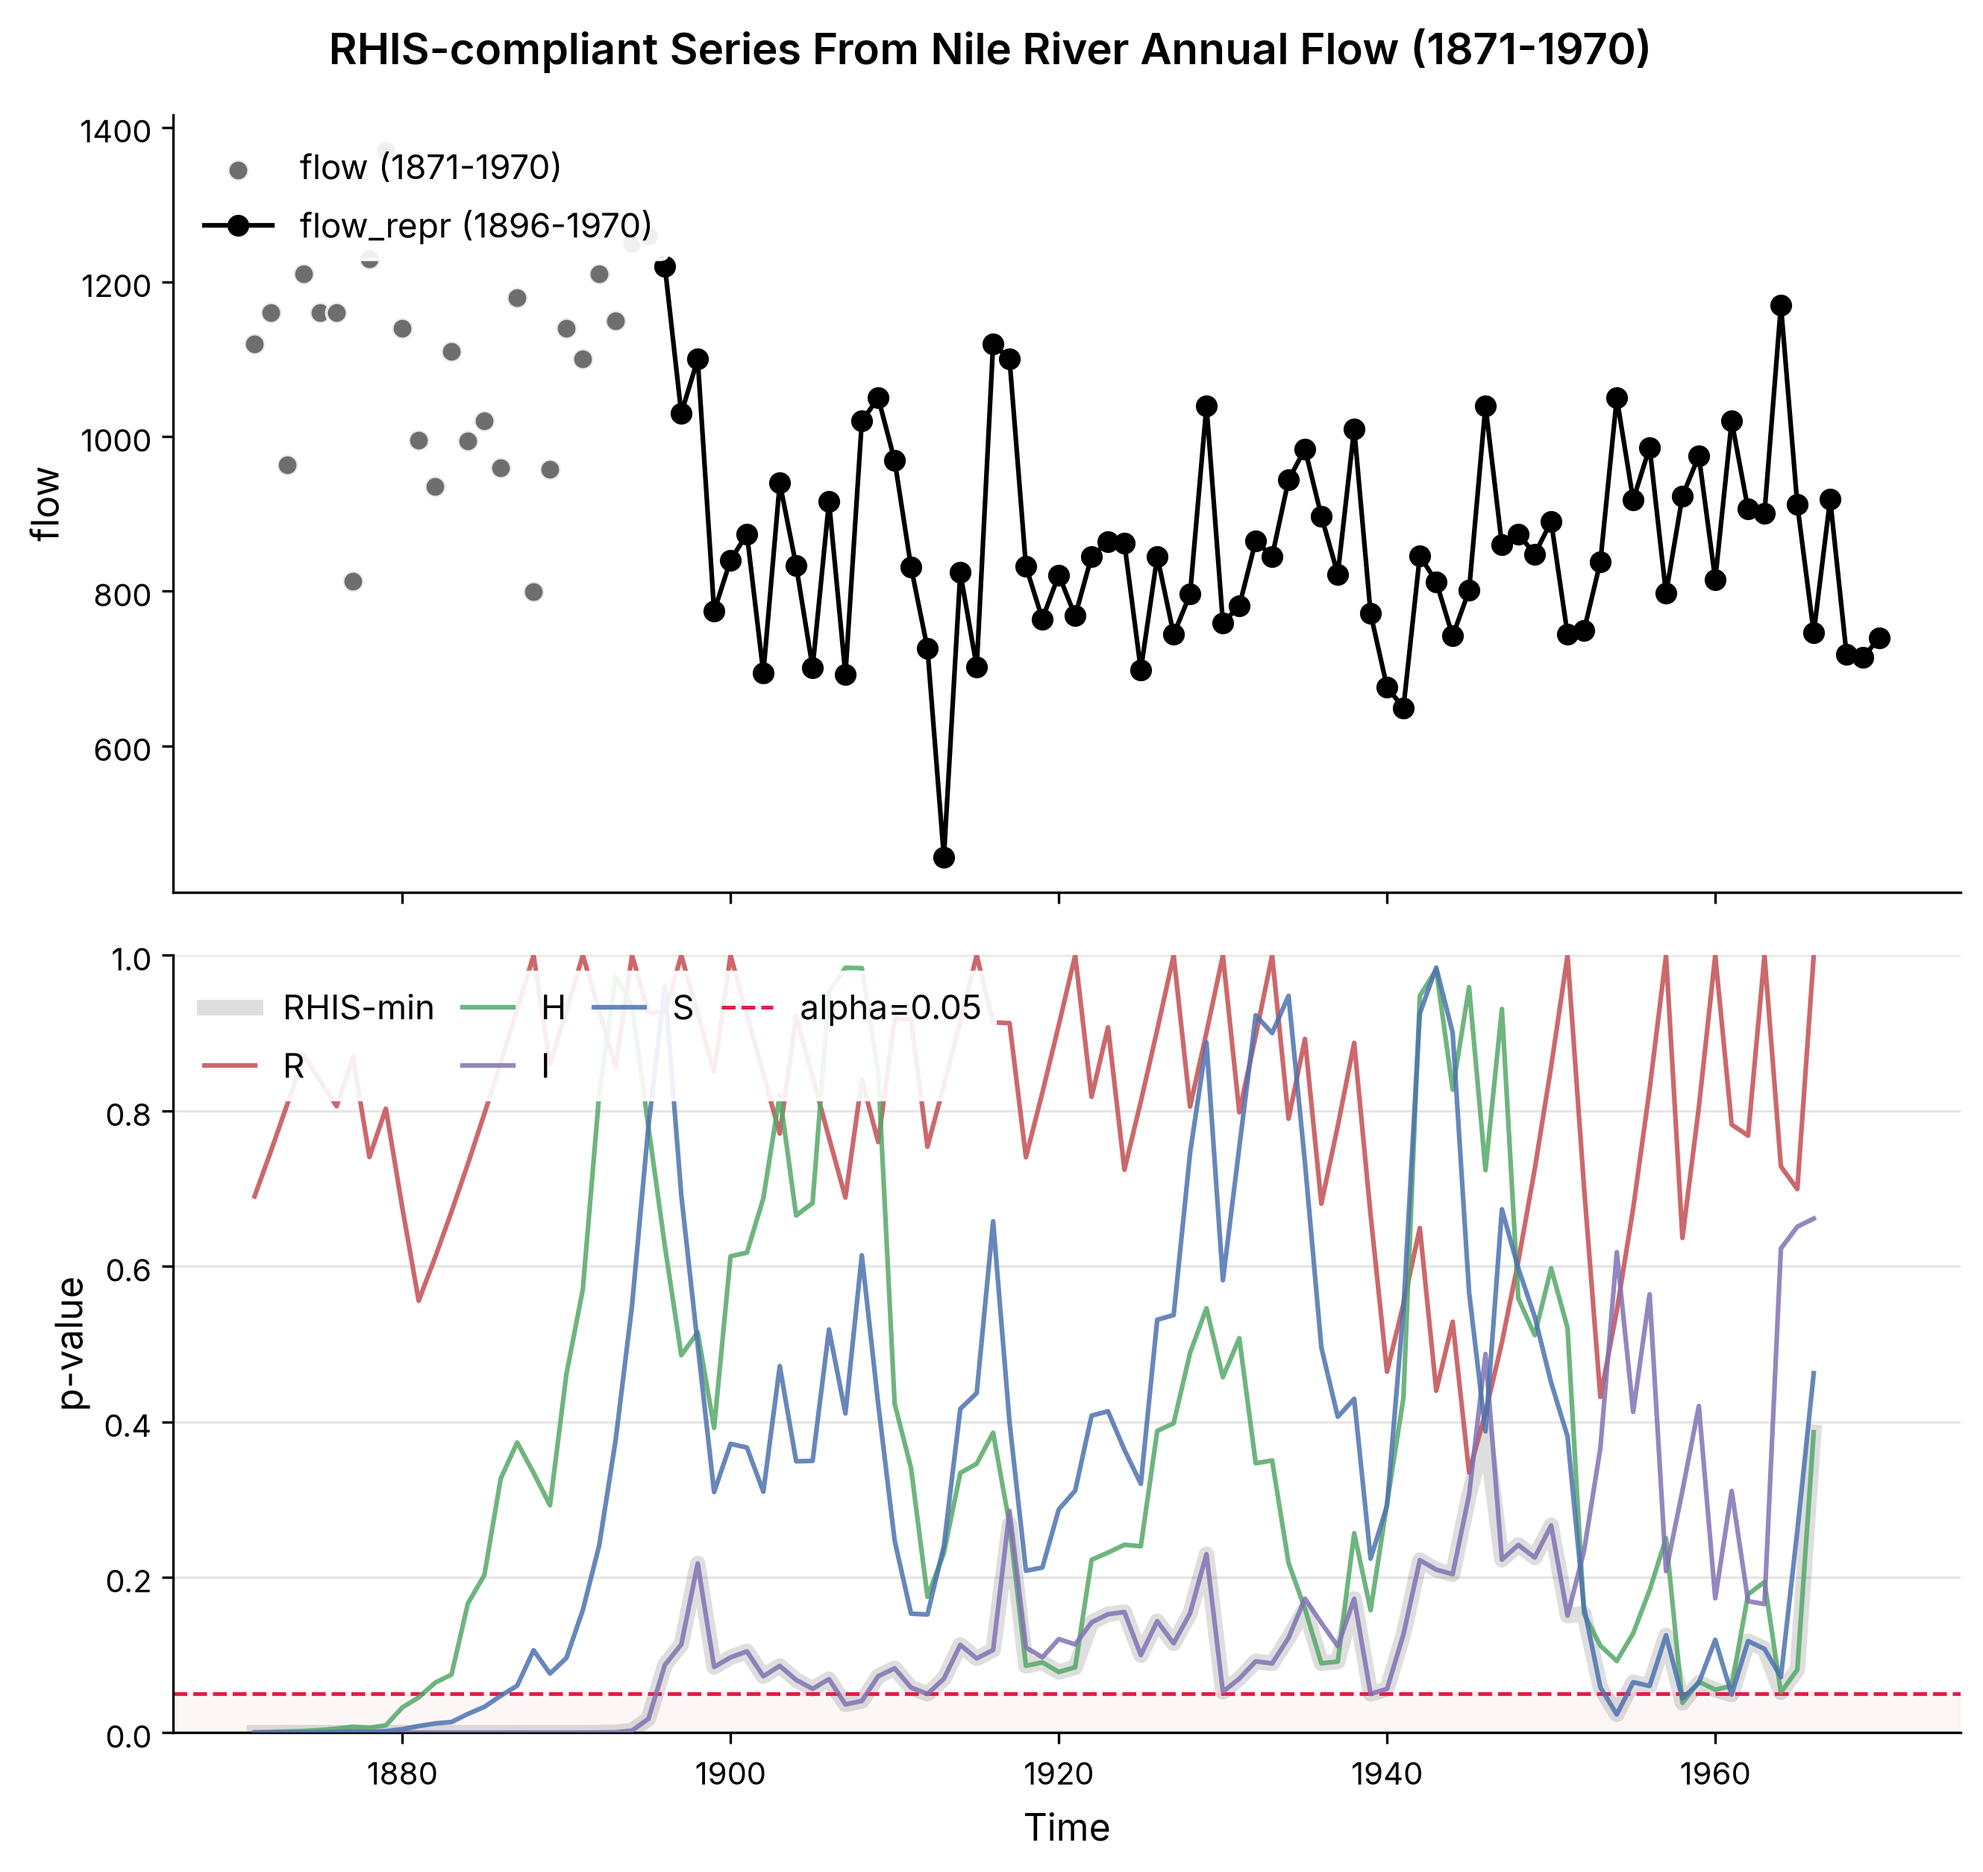
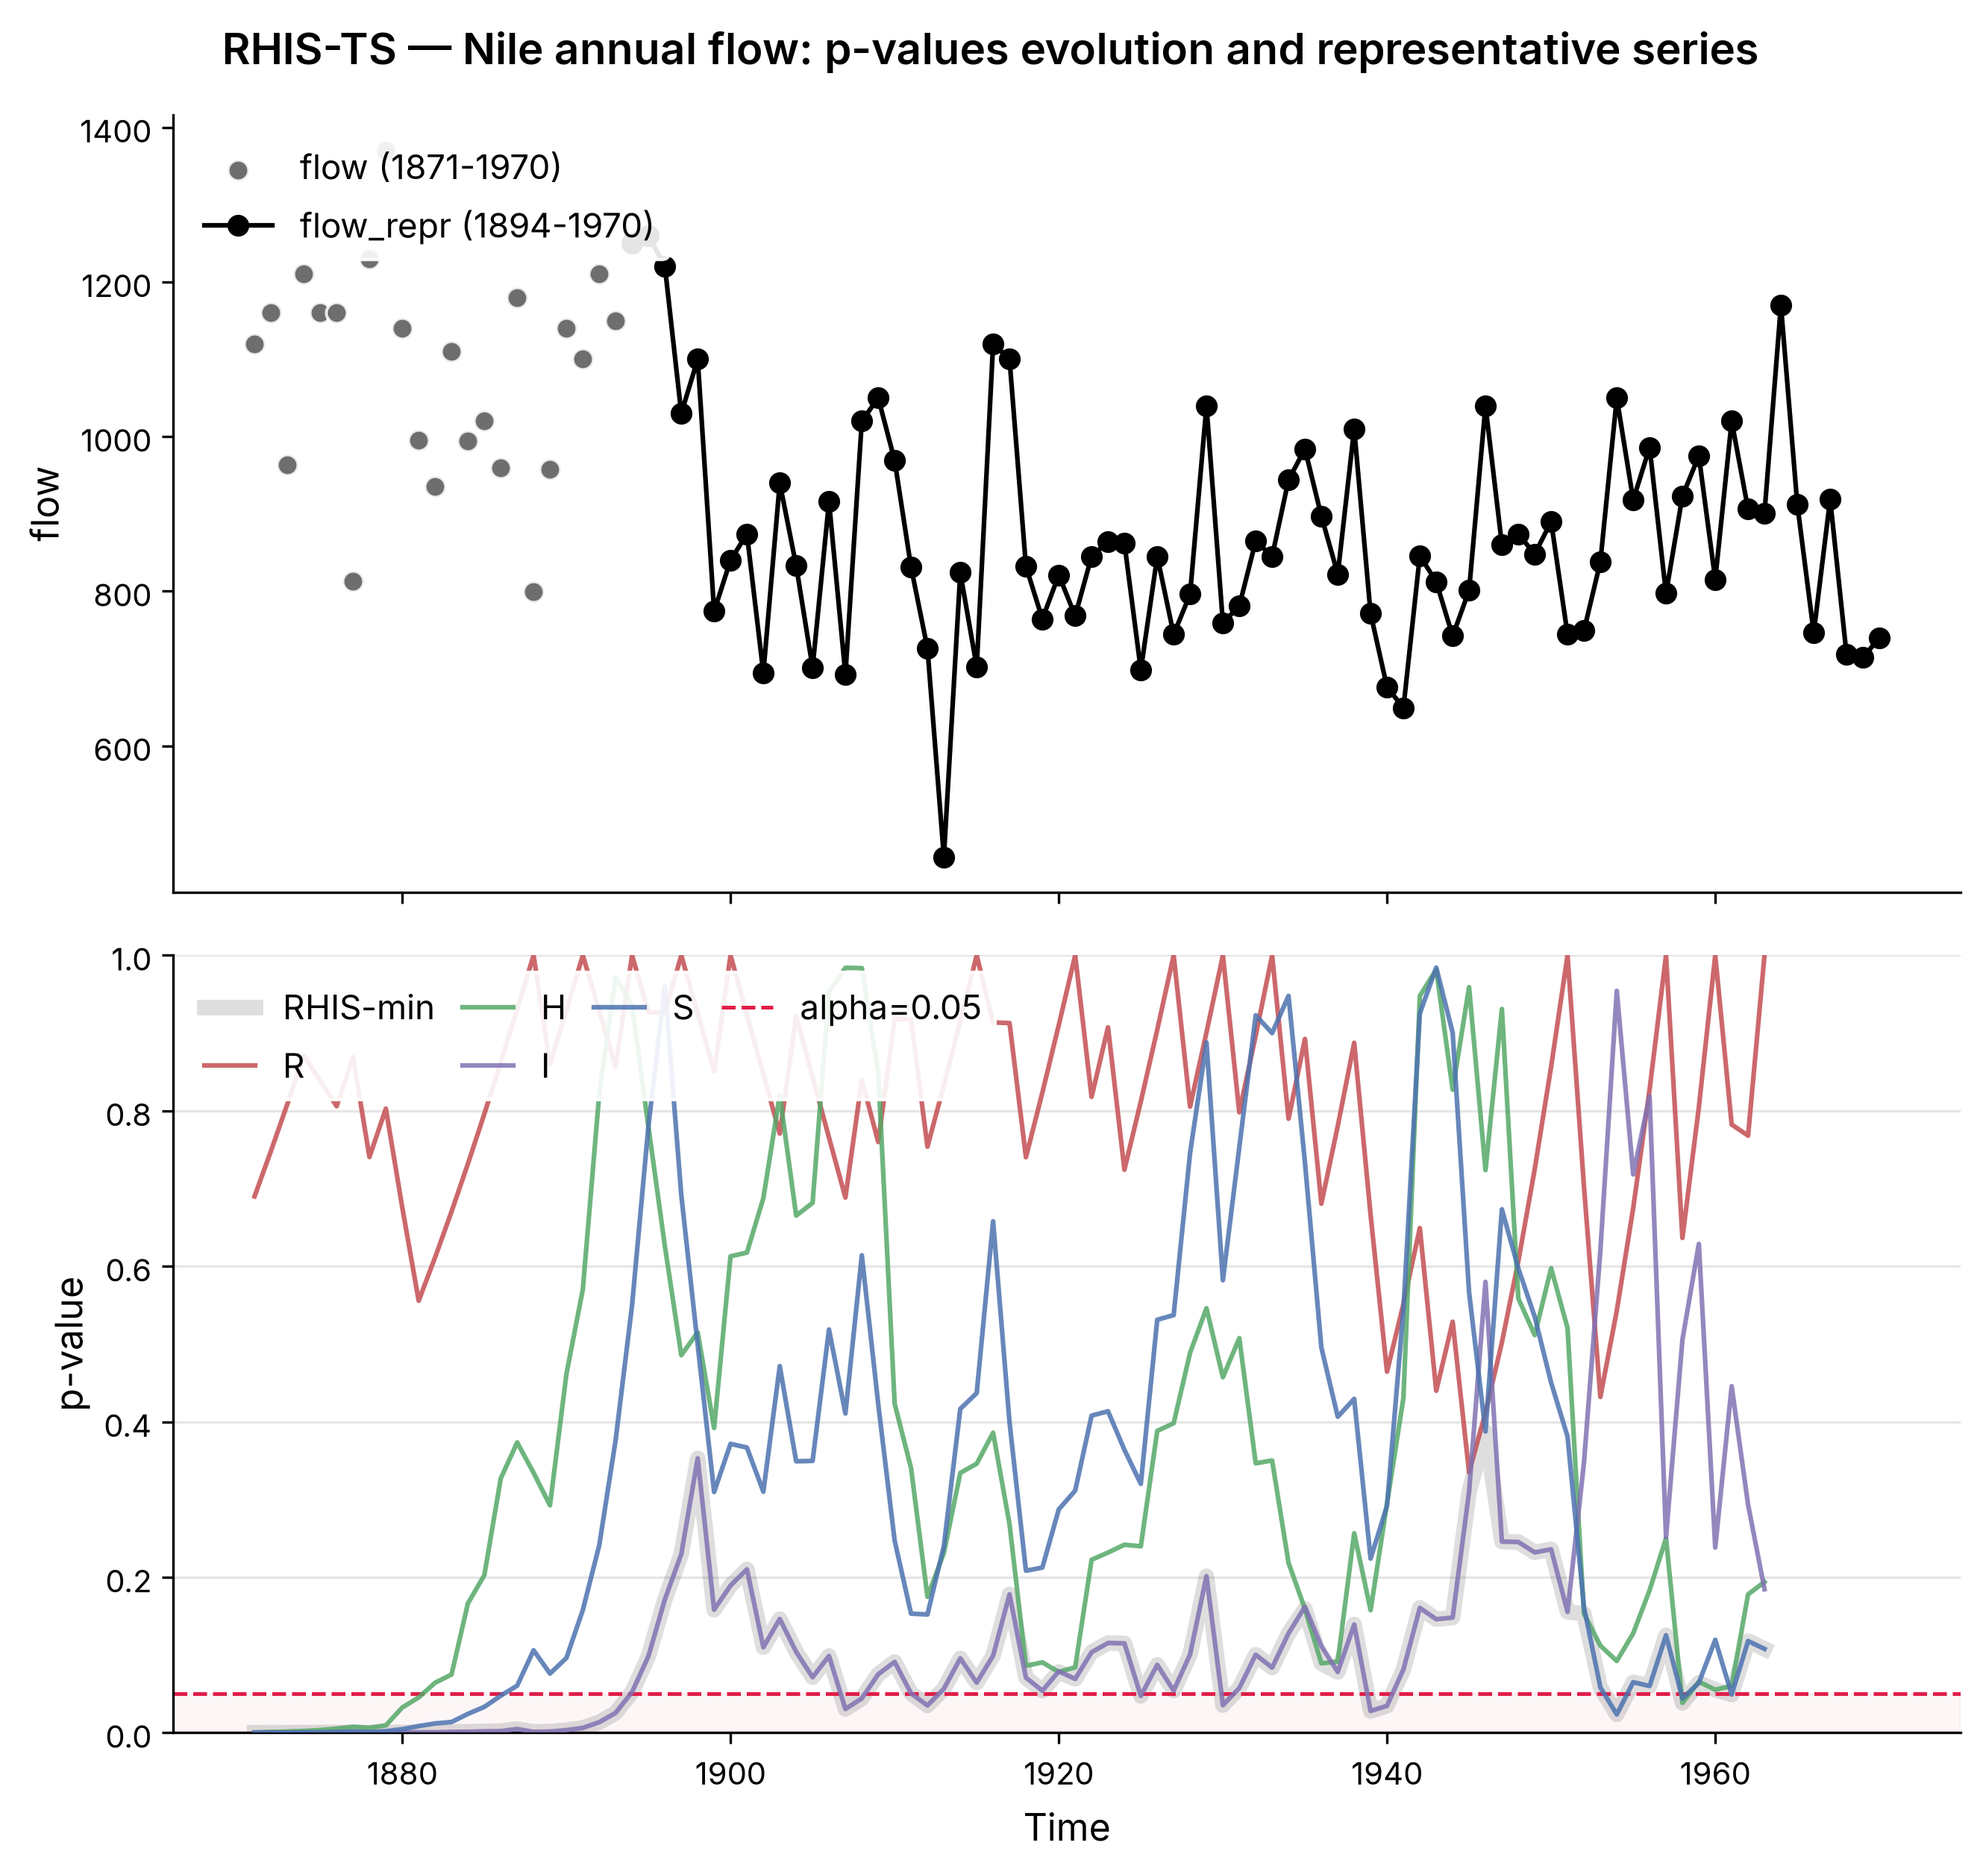
example plot has new title

Changed region(s): [[0.281, 0.5285, 0.9368, 0.9326], [0.0937, 0.0, 0.8743, 0.0311]]

diff --git a/README.md b/README.md
@@ -30,16 +30,16 @@ The windows are evaluated from longest to shortest, meaning the starting point m
 
 The results are returned as a simple dictionary containing the p-values for each hypothesis and the (start, end) indexes of the RHIS-compliant stretch.
 
-For example, a time series with 15 elements produces six p-values for each hypothesis, corresponding to windows of sizes 15, 14, 13, 12, 11, and 10.
+For example, a time series with 15 elements produces six p-values for each hypothesis, corresponding to windows of sizes 15, 14, 13, 12, 11, 10, 9, and 8.
 
 ```py
 p_evol = {
-    'series_0': {
-        'R': [0.0000, 0.1772, 0.0523, 0.0014, 0.0272, 0.0541],
-        'H': [0.0021, 0.0727, 0.3645, 0.0033, 0.3372, 0.2641],
-        'I': [0.1000, 0.0645, 0.9234, 0.2219, 0.1275, 0.5433],
-        'S': [0.0670, 0.0145, 0.0023, 0.2943, 0.7369, 0.6182],
-        'RHIS-min': [0.0000, 0.0145, 0.0023, 0.0014, 0.0272, 0.0541]
+    'flows': {
+        'R': [0.0000, 0.1772, 0.0523, 0.0014, 0.0272, 0.0015, 0.0883, 0.0541],
+        'H': [0.0021, 0.0727, 0.3645, 0.0033, 0.3372, 0.0232, 0.0736, 0.2641],
+        'I': [0.1000, 0.0645, 0.9234, 0.2219, 0.1275, 0.0664, 0.0102, 0.5433],
+        'S': [0.0670, 0.0145, 0.0023, 0.2943, 0.7369, 0.8882, 0.0921, 0.6182],
+        'RHIS-min': [0.0000, 0.0145, 0.0023, 0.0014, 0.0272, 0.0015, 0.0102, 0.0541]
         }
 }
 
@@ -49,10 +49,13 @@ p_evol = {
 # 0.0523 -> p-value with N - 2 observations
 # 0.0014 -> p-value with N - 3 observations
 # 0.0272 -> p-value with N - 4 observations
-# 0.0541 -> p-value with N - 5 observations (10 most recent values)
+# 0.0015 -> p-value with N - 5 observations
+# 0.0883 -> p-value with N - 6 observations
+# 0.0541 -> p-value with N - 7 observations (8 most recent values)
+# RHIS-min -> the minimum p-value at each time step
 
 idxs = {
-    'series_0': (5, 15)
+    'flows': (5, 15)
     }
 
 # 5  -> index of the first observation in the RHIS-compliant stretch
@@ -61,7 +64,7 @@ idxs = {
 
 Reading the RHIS-min values from left to right, we can see how the series becomes RHIS-compliant as the window gets shorter. With (\alpha = 0.05), the first window that passes all four tests is the one containing the 10 most recent observations, where RHIS-min = 0.0541.
 
-Therefore, the RHIS-compliant stretch starts at index 5 and ends at index 15 (exclusive), corresponding to the last 10 observations of the series.
+Therefore, the RHIS-compliant stretch starts at index 5 and ends at index 15 (exclusive), corresponding to the last 8 observations of the series.
 
 ## The Nile example
 
@@ -73,7 +76,7 @@ The drop was mainly climatic: the summer monsoons over the Ethiopian highlands, 
 
 ![Nile](/assets/RHIS%20flow.PNG)
 
-This figure shows the results of the **rhis-ts** package on the Nile series. **Top:** the full annual flow series together with the RHIS-compliant stretch, `flow_repr` (1896–1970). **Bottom:** the evolution of the four RHIS p-values. Reading from left to right, the first point comes from the tests applied to the full series; each following point re-runs the tests on the series from that time step onward, so the last point is the test on the most recent 10 values. Under RHIS-min, all p-values start below alpha, and homogeneity and stationarity stop being rejected around 1885. Independence, however, keeps being rejected until 1896, when all four hypotheses are finally non-rejected. The stretch from 1896 to 1970 is therefore the most recent period in which all four hypotheses hold — a single population that can be safely used for frequency analysis, matching the changepoint reported by Cobb (1978) and the climatic explanation of Eltahir (1996).
+This figure shows the results of the **rhis-ts** package on the Nile series. **Top:** the full annual flow series together with the RHIS-compliant stretch, `flow_repr` (1896–1970). **Bottom:** the evolution of the four RHIS p-values. Reading from left to right, the first point comes from the tests applied to the full series; each following point re-runs the tests on the series from that time step onward, so the last point is the test on the most recent 8 values. Under RHIS-min, all p-values start below alpha, and homogeneity and stationarity stop being rejected around 1885. Independence, however, keeps being rejected until 1896, when all four hypotheses are finally non-rejected. The stretch from 1896 to 1970 is therefore the most recent period in which all four hypotheses hold — a single population that can be safely used for frequency analysis, matching the changepoint reported by Cobb (1978) and the climatic explanation of Eltahir (1996).
 
 Data source: [Flow of the River Nile](https://www.kaggle.com/datasets/lsind18/flow-of-the-river-nile)
 
